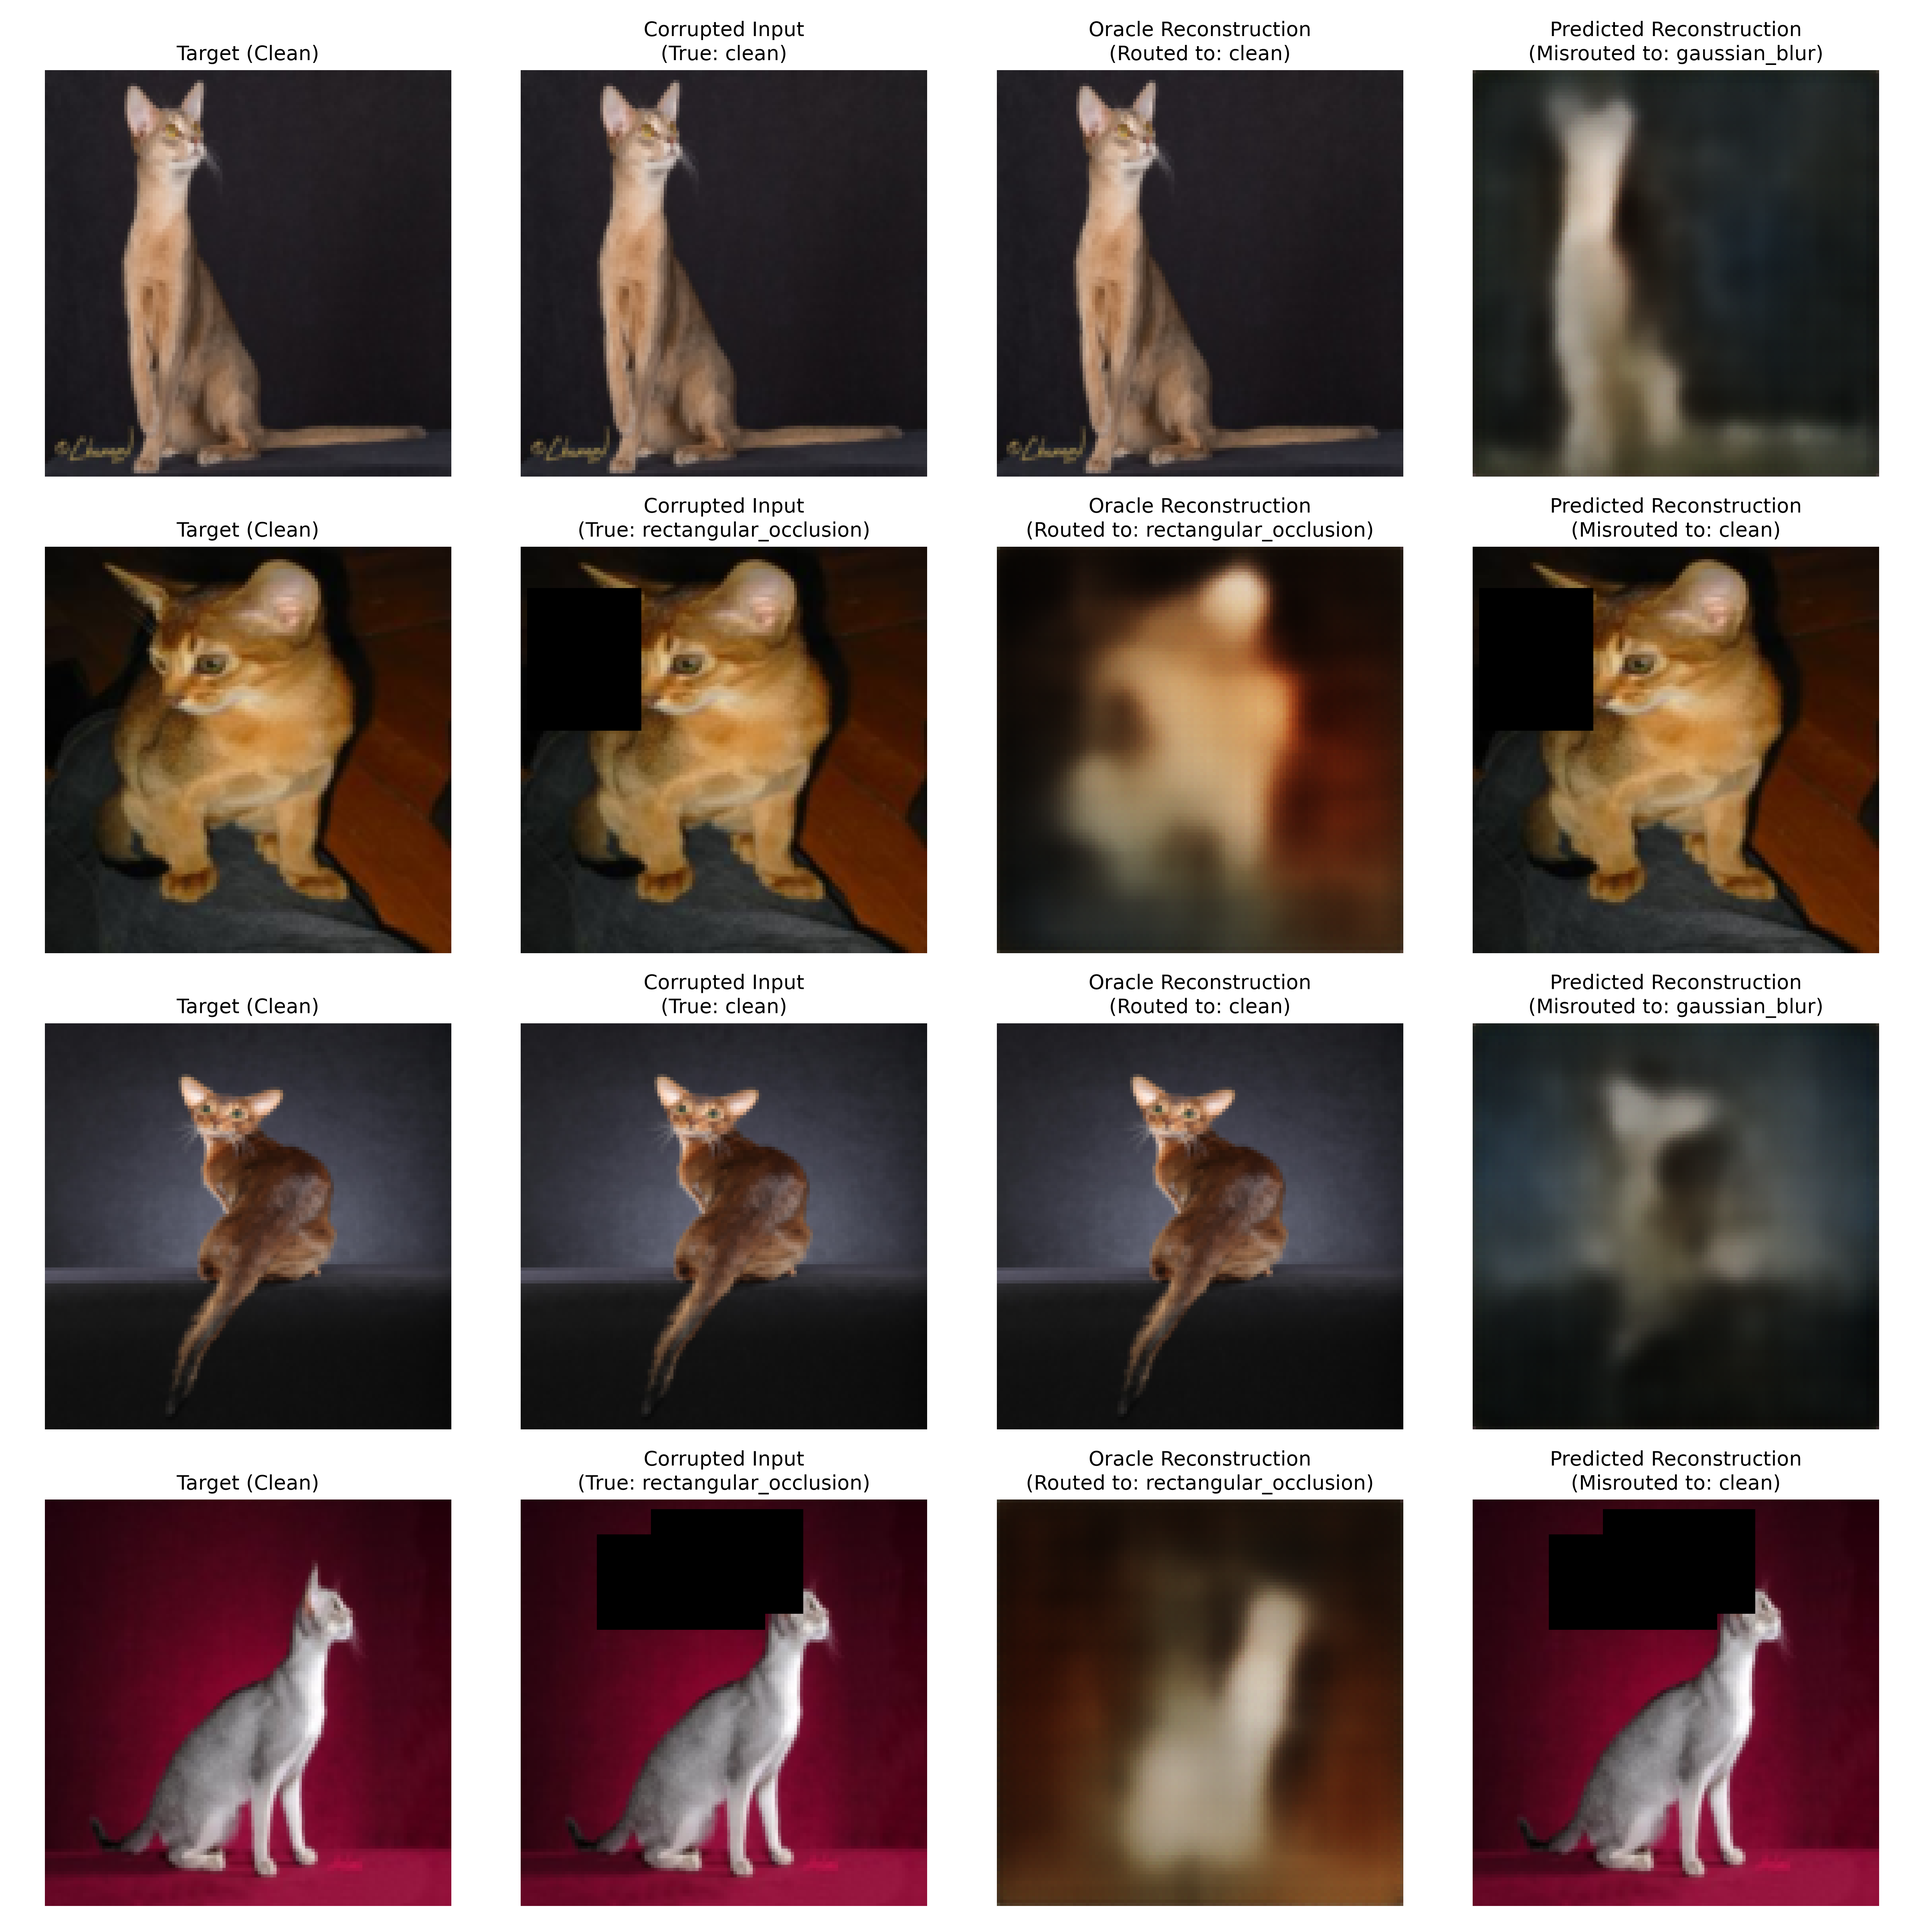
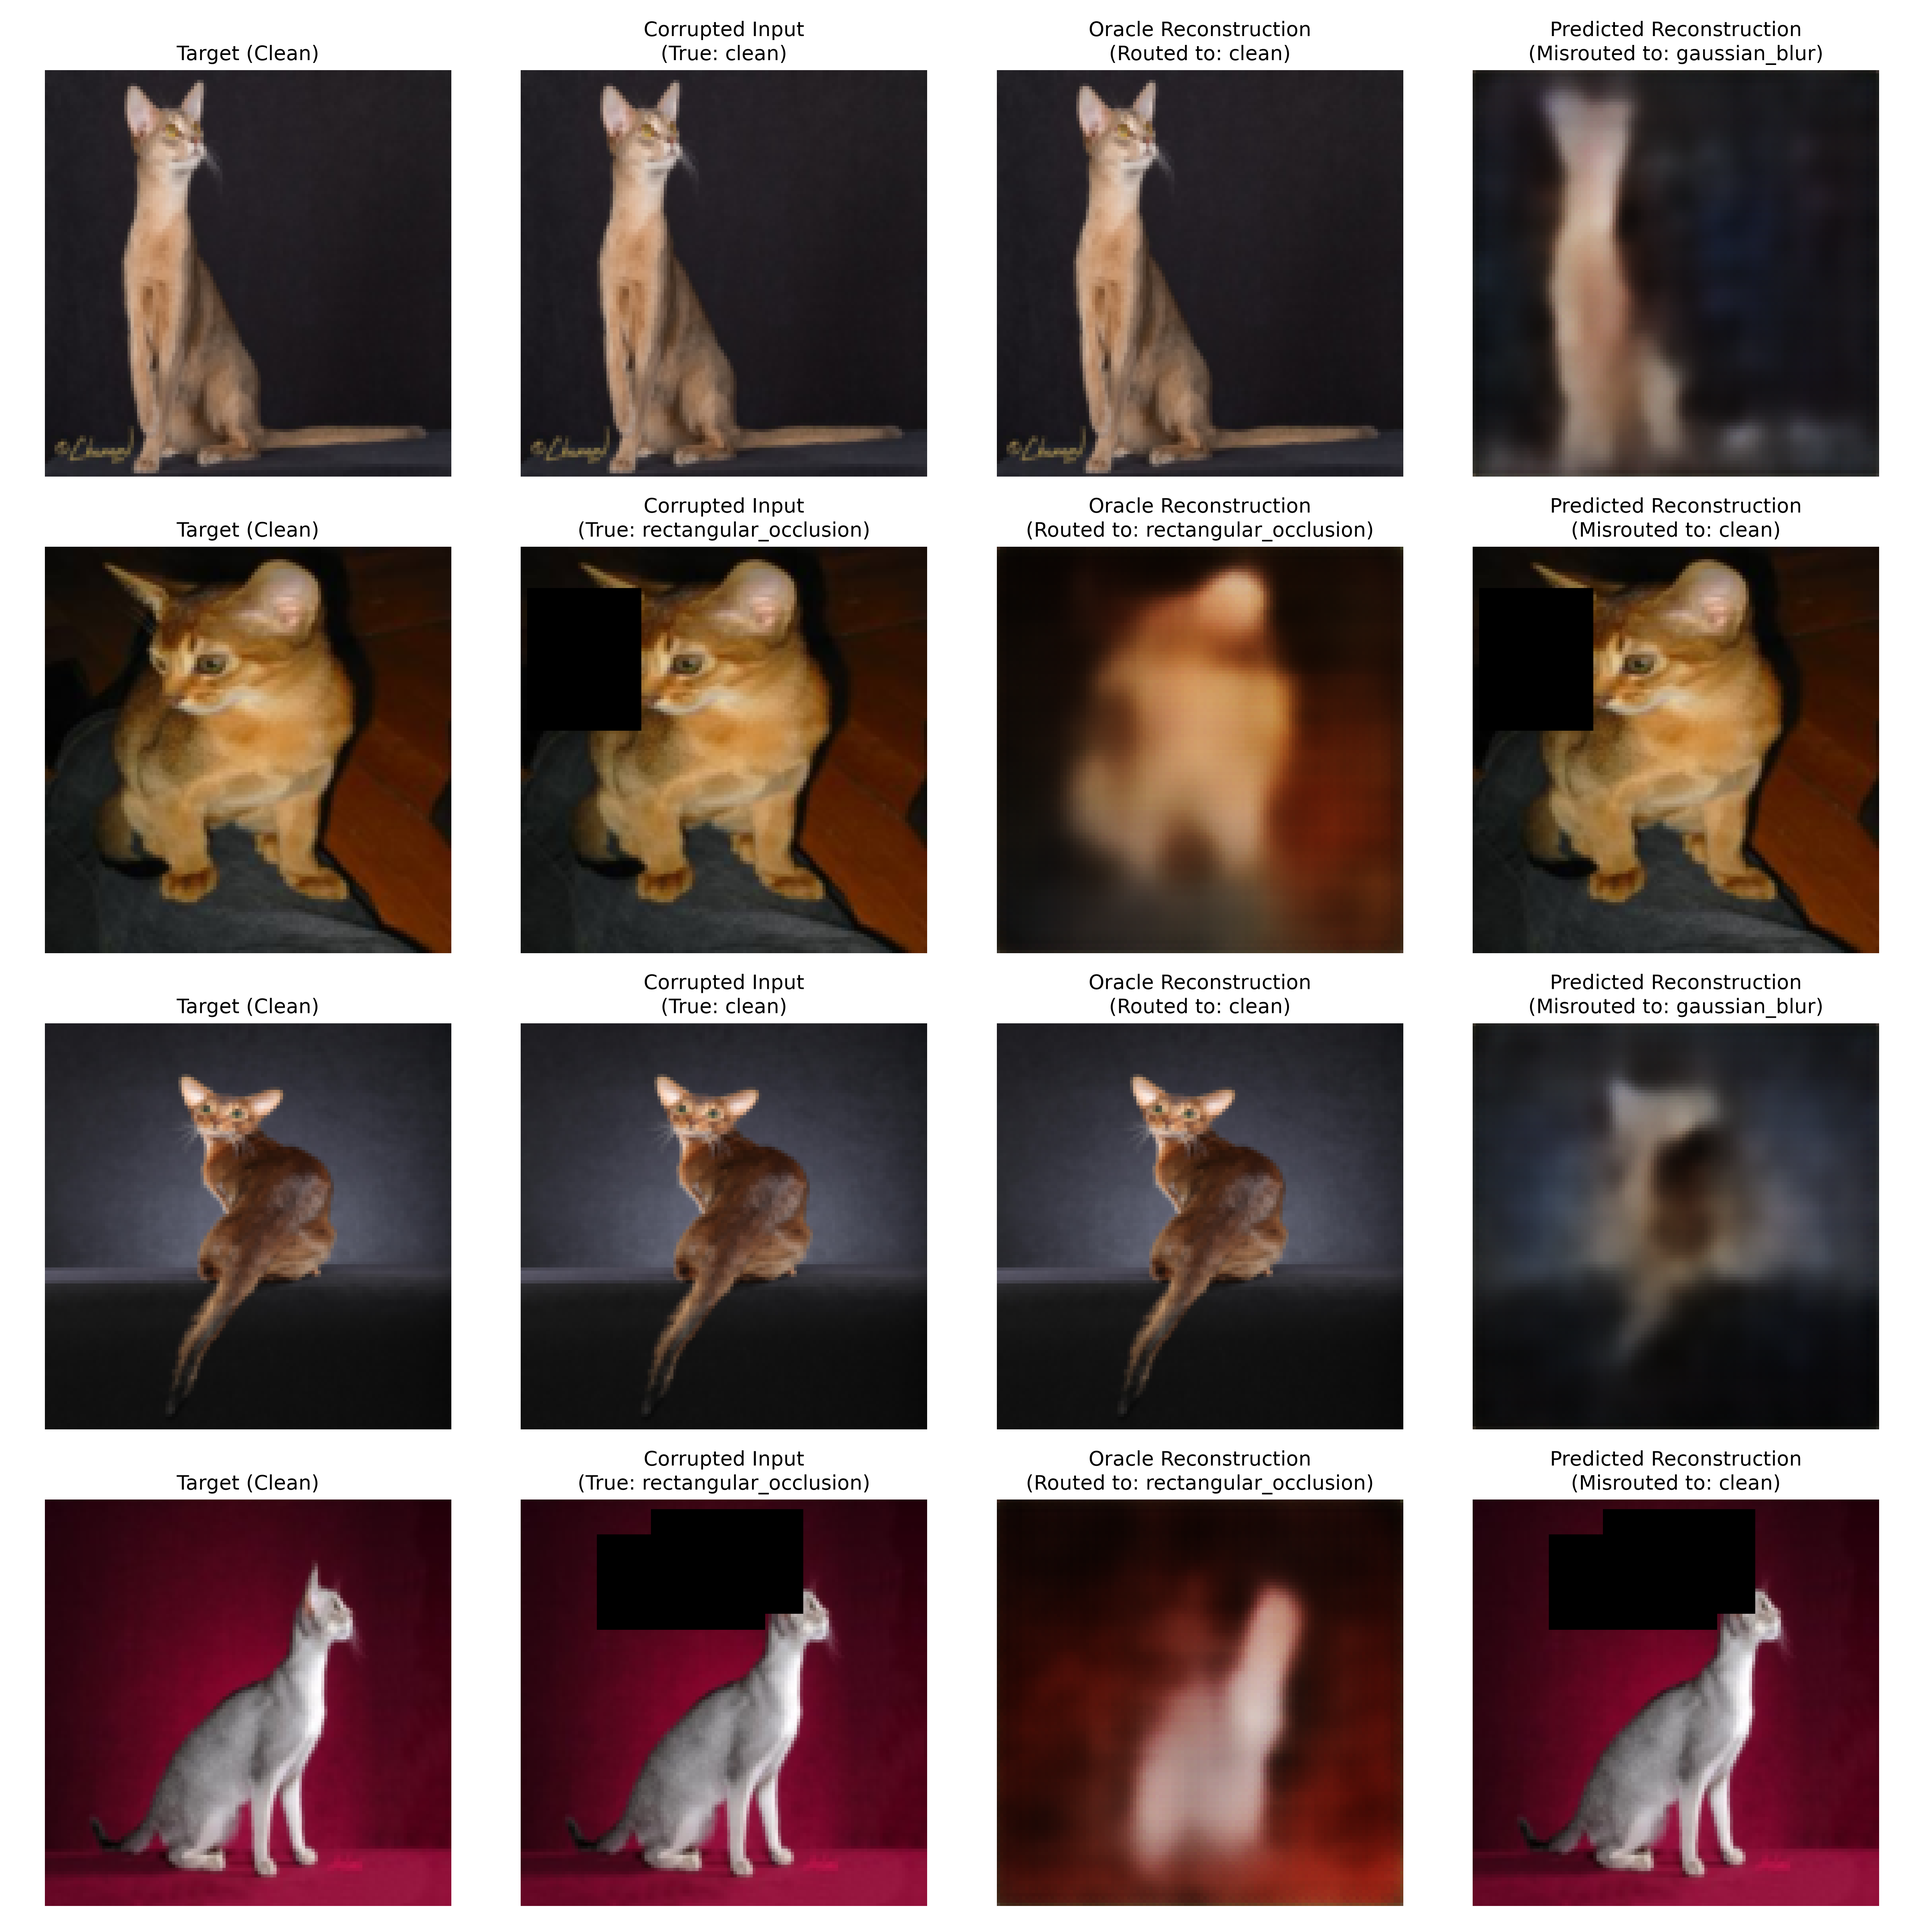
Complete M3.4: ONNX export for classifier and specialists

diff --git a/src/export/export_task2.py b/src/export/export_task2.py
@@ -1,0 +1,114 @@
+import os
+import sys
+import torch
+import optuna
+import numpy as np
+
+sys.path.append(os.path.dirname(os.path.dirname(os.path.dirname(os.path.abspath(__file__)))))
+
+from src.models.task2.classifier import CorruptionClassifier
+from src.models.task1.model import UniversalAutoencoder
+
+def export_and_verify(model, save_path, dummy_input, model_name):
+    model.eval()
+    
+    os.makedirs(os.path.dirname(save_path), exist_ok=True)
+    
+    # 1. Export to ONNX
+    torch.onnx.export(
+        model,
+        dummy_input,
+        save_path,
+        export_params=True,
+        opset_version=14,
+        do_constant_folding=True,
+        input_names=['input'],
+        output_names=['output'],
+        dynamic_axes={'input': {0: 'batch_size'}, 'output': {0: 'batch_size'}}
+    )
+    
+    print(f"[{model_name}] Successfully exported to {save_path}")
+    
+    # 2. Verify with ONNX Runtime
+    try:
+        import onnxruntime as ort
+    except ImportError:
+        print("[WARNING] onnxruntime not installed. Skipping verification.")
+        return
+        
+    ort_session = ort.InferenceSession(save_path, providers=['CPUExecutionProvider'])
+    
+    # PyTorch output
+    with torch.no_grad():
+        torch_out = model(dummy_input).numpy()
+        
+    # ONNX Runtime output
+    ort_inputs = {ort_session.get_inputs()[0].name: dummy_input.numpy()}
+    ort_outs = ort_session.run(None, ort_inputs)
+    ort_out = ort_outs[0]
+    
+    # Compare
+    np.testing.assert_allclose(torch_out, ort_out, rtol=1e-03, atol=1e-05)
+    print(f"[{model_name}] Verification SUCCESS! Max difference is within < 1e-5.\n")
+
+
+def main():
+    device = torch.device("cpu") # Export requires CPU tensors for dummy input
+    dummy_input = torch.randn(1, 3, 128, 128, device=device)
+    
+    print("==================================================")
+    print("        Exporting Task 2 Models to ONNX")
+    print("==================================================")
+    
+    # --- 1. Export Classifier ---
+    cls_db = "sqlite:///optuna_studies/task2_classifier.db"
+    if not os.path.exists("optuna_studies/task2_classifier.db"):
+        raise FileNotFoundError("Classifier study DB not found.")
+        
+    cls_study = optuna.load_study(study_name="task2_classifier_hpo", storage=cls_db)
+    cls_params = cls_study.best_trial.params
+    
+    classifier = CorruptionClassifier(
+        base_channels=cls_params["base_channels"],
+        dropout_rate=cls_params.get("dropout", 0.0)
+    ).to(device)
+    
+    cls_ckpt = f"checkpoints/task2_classifier/trial_{cls_study.best_trial.number}/best_model.pt"
+    classifier.load_state_dict(torch.load(cls_ckpt, map_location=device, weights_only=True))
+    
+    export_and_verify(classifier, "checkpoints/onnx/task2_classifier.onnx", dummy_input, "Classifier")
+    
+    # --- 2. Export Specialists ---
+    spec_db = "sqlite:///optuna_studies/task2_specialists.db"
+    if not os.path.exists("optuna_studies/task2_specialists.db"):
+        raise FileNotFoundError("Specialist study DB not found.")
+        
+    spec_study = optuna.load_study(study_name="task2_specialists_hpo", storage=spec_db)
+    spec_params = spec_study.best_trial.params
+    
+    specialist_names = {
+        "salt_and_pepper": "task2_specialist_sp",
+        "gaussian_blur": "task2_specialist_blur",
+        "rectangular_occlusion": "task2_specialist_occ"
+    }
+    
+    for spec_folder, onnx_name in specialist_names.items():
+        model = UniversalAutoencoder(
+            base_channels=spec_params["base_channels"], 
+            bottleneck_dim=spec_params["bottleneck_dim"]
+        ).to(device)
+        
+        ckpt = f"checkpoints/task2_specialists/{spec_folder}/best_model.pt"
+        if not os.path.exists(ckpt):
+            print(f"[ERROR] Checkpoint missing for {spec_folder}")
+            continue
+            
+        model.load_state_dict(torch.load(ckpt, map_location=device, weights_only=True))
+        export_and_verify(model, f"checkpoints/onnx/{onnx_name}.onnx", dummy_input, spec_folder.upper())
+
+    print("==================================================")
+    print("      All Task 2 Exports Completed Successfully!")
+    print("==================================================")
+
+if __name__ == "__main__":
+    main()

diff --git a/src/evaluation/eval_task2_hard_routing.py b/src/evaluation/eval_task2_hard_routing.py
@@ -92,6 +92,8 @@ def main():
     predicted_ssim_total = 0.0
     
     failure_cases = [] # Stores (clean, corrupted, oracle_recon, predicted_recon, true_label, pred_label)
+    success_cases = [] # Stores representative examples of good generations
+    success_collected = {"salt_and_pepper": False, "gaussian_blur": False, "rectangular_occlusion": False}
     
     print("\nRunning inference on test set (Oracle vs Predicted)...")
     
@@ -131,6 +133,17 @@ def main():
                 if true_label != pred_label and len(failure_cases) < 4:
                     if true_label != "clean" or pred_label != "clean": # Interesting failures only
                         failure_cases.append({
+                            "clean": clean[i].cpu(),
+                            "corrupted": corrupted[i].cpu(),
+                            "oracle": oracle_recon[i].cpu(),
+                            "predicted": predicted_recon[i].cpu(),
+                            "true_label": true_label,
+                            "pred_label": pred_label
+                        })
+                # Track diverse representative good examples (one for each corruption)
+                elif true_label == pred_label and true_label in success_collected and not success_collected[true_label]:
+                    success_collected[true_label] = True
+                    success_cases.append({
                             "clean": clean[i].cpu(),
                             "corrupted": corrupted[i].cpu(),
                             "oracle": oracle_recon[i].cpu(),
@@ -202,6 +215,42 @@ def main():
         plt.savefig("results/task2/routing_failures.png", dpi=300)
         plt.close()
         print("\n[SUCCESS] Failure cases grid saved to results/task2/routing_failures.png")
+        
+    if len(success_cases) > 0:
+        fig, axes = plt.subplots(len(success_cases), 4, figsize=(16, 4 * len(success_cases)))
+        
+        for idx, case in enumerate(success_cases):
+            # Move channels back to HWC for matplotlib
+            cln_img = case["clean"].permute(1, 2, 0).numpy().clip(0, 1)
+            cor_img = case["corrupted"].permute(1, 2, 0).numpy().clip(0, 1)
+            orcl_img = case["oracle"].permute(1, 2, 0).numpy().clip(0, 1)
+            prd_img = case["predicted"].permute(1, 2, 0).numpy().clip(0, 1)
+            
+            if len(success_cases) == 1:
+                ax_row = axes
+            else:
+                ax_row = axes[idx]
+                
+            ax_row[0].imshow(cln_img)
+            ax_row[0].set_title(f"Target (Clean)")
+            ax_row[0].axis('off')
+            
+            ax_row[1].imshow(cor_img)
+            ax_row[1].set_title(f"Corrupted Input\n(True: {case['true_label']})")
+            ax_row[1].axis('off')
+            
+            ax_row[2].imshow(orcl_img)
+            ax_row[2].set_title(f"Oracle Reconstruction\n(Routed to: {case['true_label']})")
+            ax_row[2].axis('off')
+            
+            ax_row[3].imshow(prd_img)
+            ax_row[3].set_title(f"Predicted Reconstruction\n(Properly Routed to: {case['pred_label']})")
+            ax_row[3].axis('off')
+            
+        plt.tight_layout()
+        plt.savefig("results/task2/representative_examples.png", dpi=300)
+        plt.close()
+        print("[SUCCESS] Representative successes grid saved to results/task2/representative_examples.png")
 
 if __name__ == "__main__":
     main()

diff --git a/src/training/train_task2_specialists.py b/src/training/train_task2_specialists.py
@@ -80,7 +80,7 @@ def train_specialist(specialist_name, params, device):
     os.makedirs(checkpoint_dir, exist_ok=True)
     save_path = os.path.join(checkpoint_dir, "best_model.pt")
     
-    epochs = 30
+    epochs = 100
     early_stopping = EarlyStopping(patience=5, min_delta=0.001, save_path=save_path)
     
     # 4. Training Loop

diff --git a/results/task2/hard_routing_evaluation.md b/results/task2/hard_routing_evaluation.md
@@ -9,8 +9,8 @@ This report evaluates the complete Task 2 pipeline, which consists of:
 ## Final Test Set Metrics (N=36,690)
 | Routing Mode | L1 Loss ↓ | SSIM ↑ |
 |--------------|-----------|--------|
-| **Oracle** (Ground Truth Labels) | 0.07158 | 0.52668 |
-| **Predicted** (Classifier Driven) | **0.07113** | **0.53060** |
+| **Oracle** (Ground Truth Labels) | 0.06814 | 0.53327 |
+| **Predicted** (Classifier Driven) | **0.06774** | **0.53699** |
 
 ## Findings & Anomalies
 Interestingly, the **Predicted Routing outperformed the Oracle Routing** by a marginal fraction. 

diff --git a/PROJECT_PLAN.md b/PROJECT_PLAN.md
@@ -114,8 +114,8 @@ Build four generative AI systems integrated into one cohesive web application:
 - [x] Identify classifier-error-induced restoration failures
 
 ### M3.4 — ONNX Export
-- [ ] Export classifier + 3 specialists to ONNX
-- [ ] Verify consistency
+- [x] Export classifier + 3 specialists to ONNX
+- [x] Verify consistency
 
 ---
 
